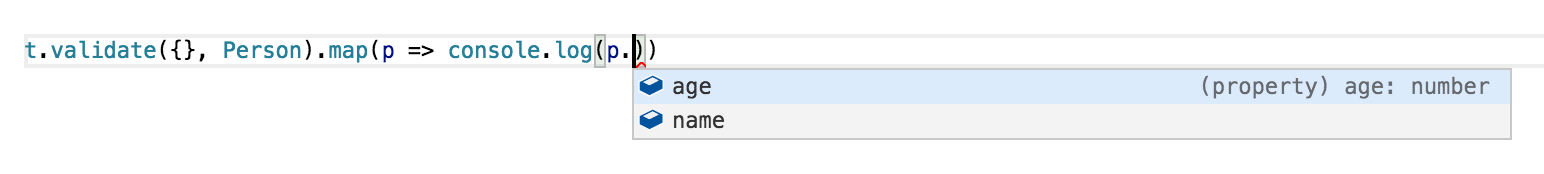
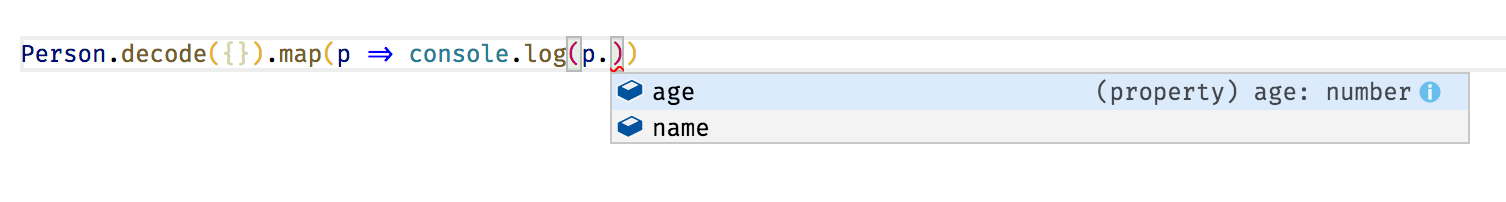
update documentation and bump version

Changed region(s): [[0.0, 0.1724, 0.9987, 0.6034], [0.4057, 0.5747, 0.9987, 0.7471], [0.4057, 0.7759, 0.9987, 0.8046]]

diff --git a/src/index.ts b/src/index.ts
@@ -40,8 +40,8 @@ export interface Encoder<S, A> {
 
 /**
  * Laws:
- * 1. validate(x, T).fold(() => x, T.serialize) = x
- * 2. validate(T.serialize(x), T) = Right(x)
+ * 1. T.decode(x).fold(() => x, T.serialize) = x
+ * 2. T.decode(T.serialize(x)) = right(x)
  *
  * where `T` is a runtime type
  */
@@ -76,7 +76,7 @@ export class Type<S, A> implements Decoder<S, A>, Encoder<S, A> {
   asEncoder(): Encoder<S, A> {
     return this
   }
-  /** succeeds if a value of type S can be decoded to a value of type A */
+  /** a version of `validate` with a default context */
   decode(s: S): Validation<A> {
     return this.validate(s, getDefaultContext(this))
   }

diff --git a/typings-checker/index.ts b/typings-checker/index.ts
@@ -310,3 +310,14 @@ const TU1 = t.taggedUnion('type', [t.type({ type: t.literal('a') }), t.type({ ty
 const x36: TypeOf<typeof TU1> = true
 const x37: TypeOf<typeof TU1> = { type: 'a' }
 const x38: TypeOf<typeof TU1> = { type: 'b' }
+
+export function interfaceWithOptionals<R extends t.Props, O extends t.Props>(
+  required: R,
+  optional: O,
+  name?: string
+): t.IntersectionType<
+  [t.InterfaceType<R, t.InterfaceOf<R>>, t.PartialType<O, t.PartialOf<O>>],
+  t.InterfaceOf<R> & t.PartialOf<O>
+> {
+  return t.intersection([t.interface(required), t.partial(optional)], name)
+}

diff --git a/README.md b/README.md
@@ -8,7 +8,7 @@ A value of type `Type<S, A>` (called "runtime type") is the runtime representati
 
 Also a runtime type can
 
-* decode inputs (through `validate`)
+* decode inputs (through `decode`)
 * encode outputs (through `serialize`)
 * be used as a custom type guard (through `is`)
 
@@ -28,6 +28,8 @@ class Type<S, A> {
     /** converts a value of type A to a value of type S */
     readonly serialize: (output: A) => S
   ) {}
+  /** a version of `validate` with a default context */
+  decode(s: S): Either<Errors, A>
 }
 ```
 
@@ -62,10 +64,10 @@ const Person = t.interface({
 })
 
 // ok
-t.validate(JSON.parse('{"name":"Giulio","age":43}'), Person) // => Right({name: "Giulio", age: 43})
+Person.decode(JSON.parse('{"name":"Giulio","age":43}')) // => Right({name: "Giulio", age: 43})
 
 // ko
-t.validate(JSON.parse('{"name":"Giulio"}'), Person) // => Left([...])
+Person.decode(JSON.parse('{"name":"Giulio"}')) // => Left([...])
 ```
 
 # Error reporters
@@ -89,12 +91,12 @@ Example
 import { PathReporter } from 'io-ts/lib/PathReporter'
 import { ThrowReporter } from 'io-ts/lib/ThrowReporter'
 
-const validation = t.validate({ name: 'Giulio' }, Person)
+const result = Person.decode({ name: 'Giulio' })
 
-console.log(PathReporter.report(validation))
+console.log(PathReporter.report(result))
 // => ['Invalid value undefined supplied to : { name: string, age: number }/age: number']
 
-ThrowReporter.report(validation)
+ThrowReporter.report(result)
 // => throws 'Invalid value undefined supplied to : { name: string, age: number }/age: number'
 ```
 
@@ -231,8 +233,8 @@ const Person = t.interface({
 
 const StrictPerson = t.strict(Person.props)
 
-t.validate({ name: 'Giulio', age: 43, surname: 'Canti' }, Person) // ok
-t.validate({ name: 'Giulio', age: 43, surname: 'Canti' }, StrictPerson) // fails
+Person.decode({ name: 'Giulio', age: 43, surname: 'Canti' }) // ok
+StrictPerson.decode({ name: 'Giulio', age: 43, surname: 'Canti' }) // fails
 ```
 
 # Mixing required and optional props
@@ -297,10 +299,10 @@ const DateFromString = new t.Type<t.mixed, Date>(
 
 const s = new Date(1973, 10, 30).toISOString()
 
-t.validate(s, DateFromString)
+DateFromString.decode(s)
 // right(new Date('1973-11-29T23:00:00.000Z'))
 
-t.validate('foo', DateFromString)
+DateFromString.decode('foo')
 // left(errors...)
 ```
 
@@ -366,7 +368,7 @@ const { NODE_ENV } = process.env
 
 export function unsafeValidate<S, A>(value: any, type: t.Type<S, A>): A {
   if (NODE_ENV !== 'production') {
-    return t.validate(value, type).getOrElse(errors => {
+    return type.decode(value).getOrElse(errors => {
       throw new Error(failure(errors).join('\n'))
     })
   }

diff --git a/CHANGELOG.md b/CHANGELOG.md
@@ -13,6 +13,13 @@
 **Note**: Gaps between patch versions are faulty/broken releases. **Note**: A feature tagged as Experimental is in a
 high state of flux, you're at risk of it changing without notice.
 
+# 0.9.8
+
+* **New Feature**
+  * add decode and deprecate top level validate (@gcanti)
+* **Internal**
+  * when checking validations use methods instead of top level functions (@gcanti)
+
 # 0.9.7
 
 * **New Feature**
